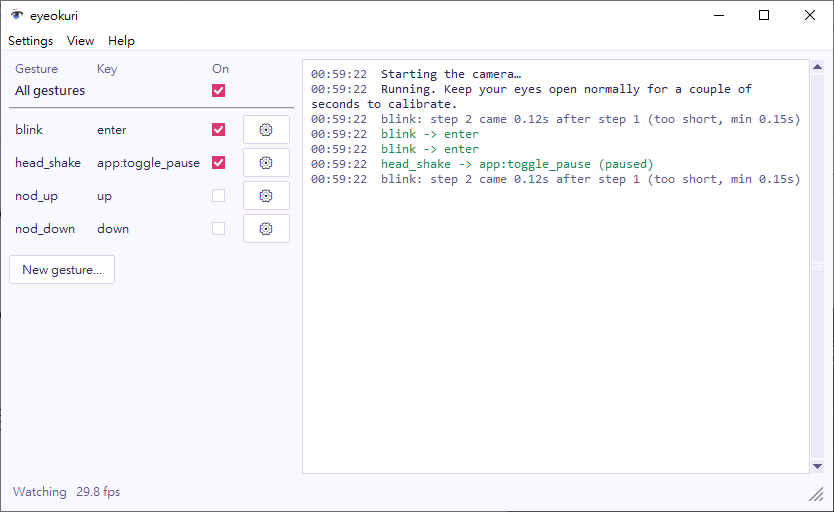
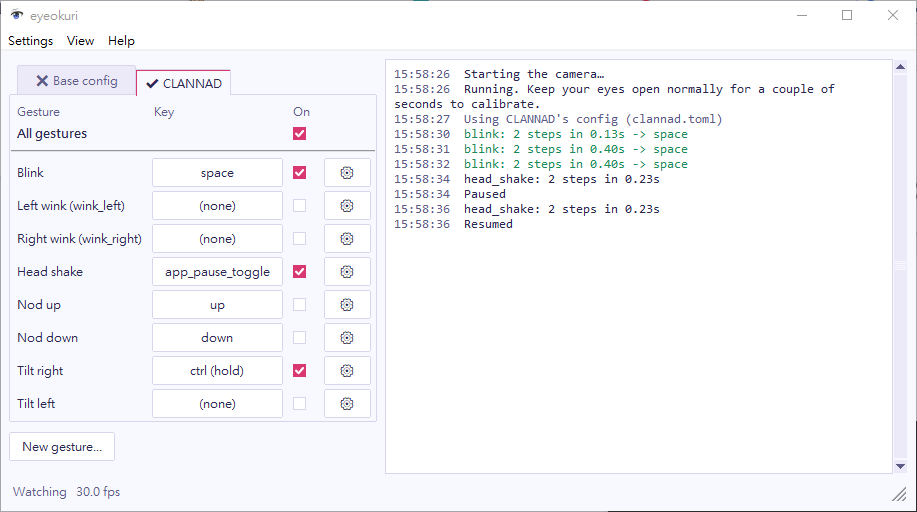
Update the English guide and screenshots for program configs
The main window's screenshot still showed a single list, and the guide
didn't say where a toggle, reset or delete applies now that a program has
its own tab.

- The main window screenshot shows the Base config and CLANNAD tabs, with
  CLANNAD sending space for a blink. The gesture window screenshot is
  retaken too; it was out of date with the current layout.
- tools/capture_screenshots.py fakes a CLANNAD config and foreground for
  the main window shot, then goes back to the base tab for the others.
- The guide says a toggle saves to the tab you're in, that the gesture
  window resets to the base config in a program tab, where program configs
  live, and that the command line ignores them.
- The Japanese and Traditional Chinese screenshots and these edits are
  not updated yet.

diff --git a/tools/capture_screenshots.py b/tools/capture_screenshots.py
@@ -33,6 +33,7 @@ import numpy as np
 from eyeokuri import i18n, theme
 from eyeokuri.config import Config
 from eyeokuri.engine import Engine
+from eyeokuri.foreground import Seen
 from eyeokuri.gui import worker as worker_module
 from eyeokuri.gui.main_window import MainWindow
 from eyeokuri.sources import EYE_OPENNESS, HEAD_POSE, Signals
@@ -133,6 +134,13 @@ class SilentOutput:
 
     def up(self, name: str) -> None:
         pass
+
+
+class FixedForeground:
+    """Says CLANNAD is in front, so the main window shows its program tab."""
+
+    def read(self) -> Seen:
+        return Seen("CLANNAD.exe", "CLANNAD")
 
 
 # Screen capture
@@ -243,7 +251,13 @@ def run(language: str, out: Path, only: set[str]) -> list[Path]:
     root.geometry("+40+40")
     session = Session(root, out, only)
     with tempfile.TemporaryDirectory() as folder:
+        # A program config for the main window's second tab: CLANNAD advances with space.
+        (Path(folder) / "configs").mkdir()
+        (Path(folder) / "configs" / "clannad.toml").write_text(
+            'version = 1\n\n[program]\nexe = "CLANNAD.exe"\nname = "CLANNAD"\n\n[gestures.blink]\noutput = "space"\n',
+            encoding="utf-8")
         main = MainWindow(root, replace(Config(), app=replace(Config().app, paused=False)), Path(folder) / "config.toml")
+        main._probe = FixedForeground()
         try:
             _scenes(session, main, source)
         finally:
@@ -256,12 +270,16 @@ def _scenes(s: Session, main: MainWindow, source: ScriptedSource) -> None:
     # Let the eye and head trackers learn the steady pose.
     s.pump(3.5)
 
-    # Main window: a quick blink that is turned down, two blinks that fire, then a head shake to pause and another to resume.
+    # Main window, with the CLANNAD tab selected: a quick blink that is turned down, two blinks that fire,
+    # then a head shake to pause and another to resume.
+    main.tabs.select(main.program_rows)
     source.play(blink(2) + steady(0.8) + blink() + steady(0.8) + blink() + steady(0.8)
                 + shake() + steady(1.5) + shake() + steady(1.5))
     s.pump_until(lambda: source.idle)
     s.pump(0.5)
     s.shoot("main-window", main.root)
+    main.tabs.select(main.base_rows)  # the other windows edit the base config
+    s.pump(0.3)  # Tk tells the window about the tab change in an event
 
     # Gesture window: the plot shows 4 seconds, a blink 1.4 s in, then the source holds still.
     main.open_gesture("blink")

diff --git a/site/src/content/docs/guide/main-window.md b/site/src/content/docs/guide/main-window.md
@@ -7,14 +7,14 @@ description: Turn gestures on and off, choose the key each one sends, pause eyeo
 
 The main window lists your gestures on the left and shows the log on the right. Start it from the Start menu after you install it, or with `eyeokuri-gui` if you run from source.
 
-![The eyeokuri main window with four gestures and a log of blinks and a head shake](../../../assets/screenshots/main-window.png)
+![The eyeokuri main window with a Base config tab and a CLANNAD tab, the gesture list and a log of blinks and a head shake](../../../assets/screenshots/main-window.png)
 
 ## Turn gestures on and off
 
 Each gesture row shows the gesture's name and has three controls:
 
 - The button in the **Key** column shows the key the gesture sends and opens the key window. See [Choose what a gesture sends](#choose-what-a-gesture-sends).
-- The checkbox in the **On** column turns the gesture on or off. eyeokuri saves the change to the config file right away.
+- The checkbox in the **On** column turns the gesture on or off. eyeokuri saves the change right away, to the config of the tab you're in. See [Use different keys for each program](#use-different-keys-for-each-program).
 - The gear button (⚙) opens the gesture's window. See [Edit a gesture](../edit-a-gesture/).
 
 **New gesture…** asks for a name, then opens a gesture window for the new gesture.
@@ -49,7 +49,7 @@ Each game or other program can have its own config. Two tabs sit above the gestu
 - **Base config** holds the settings every program uses.
 - The second tab is for the program you used last, other than eyeokuri. It shows that program's window title.
 
-A ✔ marks the tab whose settings eyeokuri uses now. **Base config** shows a ✖ while a program's own config is in use.
+A ✔ marks the tab whose settings eyeokuri uses now. **Base config** shows a ✖ while a program's own config is in use. In the screenshot at the top, CLANNAD is in front, so its tab has the ✔, and a blink sends `space` there while the base config still sends `enter`.
 
 To give a game its own keys:
 

diff --git a/site/src/content/docs/guide/edit-a-gesture.md b/site/src/content/docs/guide/edit-a-gesture.md
@@ -63,8 +63,8 @@ eyeokuri uses your changes as soon as you make them. They aren't saved until you
 
 - **OK** saves the settings to the config file and closes the window.
 - **Cancel** goes back to the settings you had when you opened the window and closes it. Closing the window another way works like **Cancel**, and asks first if you changed something.
-- **Reset to default** puts a built-in gesture's settings back. It keeps the gesture on or off as it is.
-- **Delete** removes a gesture you added. If another gesture uses it as a step, remove it from there first. You can't delete a built-in gesture. Turn it off instead.
+- **Reset to default** puts a built-in gesture's settings back. It keeps the gesture on or off as it is. When you open the window from a program's tab, the button reads **Reset to base config** and puts back the base config's settings.
+- **Delete** removes a gesture you added. If another gesture uses it as a step, remove it from there first. You can't delete a built-in gesture. Turn it off instead. In a program's tab, you can delete only a gesture you added in that tab.
 
 Saving rewrites the config file with only the values that differ from the defaults, so comments in the file are not kept.
 

diff --git a/site/src/content/docs/guide/getting-started.md b/site/src/content/docs/guide/getting-started.md
@@ -13,7 +13,7 @@ Download `eyeokuri-setup.exe` from the [latest release](https://github.com/lulal
 
 Windows might warn about an unknown publisher because the app is not signed. Select **More info**, then **Run anyway**.
 
-Your settings are saved in `%APPDATA%\eyeokuri\config.toml`. Upgrading or uninstalling eyeokuri keeps them.
+Your settings are saved in `%APPDATA%\eyeokuri\config.toml`. Upgrading or uninstalling eyeokuri keeps them. A program's own config goes in the `configs` folder next to it. See [Use different keys for each program](../main-window/#use-different-keys-for-each-program).
 
 ## Start reading
 

diff --git a/docs/command-line.md b/docs/command-line.md
@@ -12,7 +12,7 @@ eyeokuri --min-duration 0.5 --blink-key ctrl+enter   # common settings as flags
 eyeokuri --set eyes.open_ratio=0.8                # any config key (repeatable)
 ```
 
-`eyeokuri --help` lists all flags. Command-line settings override the config file.
+`eyeokuri --help` lists all flags. Command-line settings override the config file. The command line doesn't read per-program configs, which only `eyeokuri-gui` uses.
 
 ## Set a config value
 
